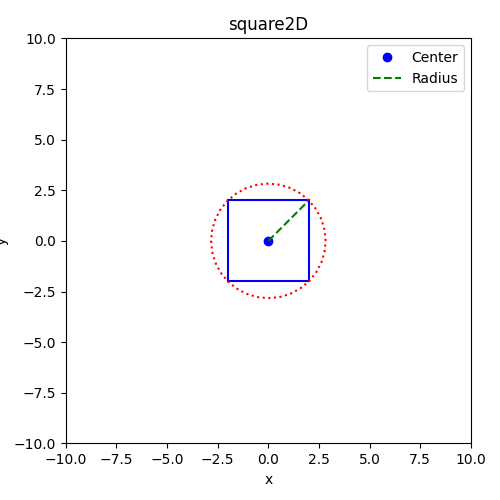
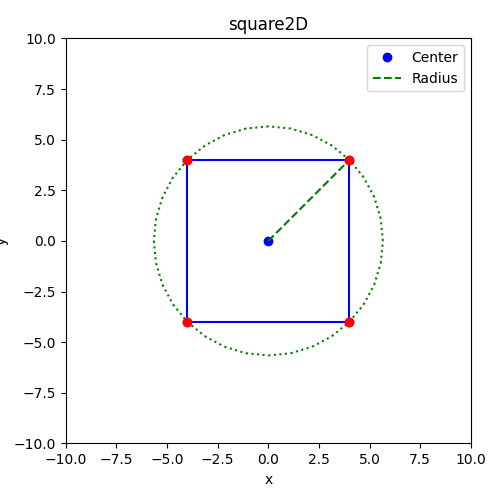
Removed degree angle from classes to avoid amiguity, only radian angles in classes.

diff --git a/tests/unit_tests/vec2fTests.cpp b/tests/unit_tests/vec2fTests.cpp
@@ -161,7 +161,7 @@ TEST(vec2fTests, FlipVec2fAdvancedCase)
 TEST(vec2fTests, RotateVec2fBaseCase)
 {
     auto v1 = vec2f(1, 1);
-    auto v1_r90 = v1.rotate(90);
+    auto v1_r90 = v1.rotate(degToRad(90));
 
     ASSERT_NEAR(v1_r90.x, -1, 1e-3f); // test x
     ASSERT_NEAR(v1_r90.y, 1, 1e-3f); // test y
@@ -171,7 +171,7 @@ TEST(vec2fTests, RotateRelToVec2fBaseCase)
 {
     auto v1 = vec2f(1, 1);
     auto v2 = vec2f(2, 2);
-    auto v2_r90 = v2.rotateRelTo(v1, 90);
+    auto v2_r90 = v2.rotateRelTo(v1, degToRad(90));
 
     ASSERT_NEAR(v2_r90.x, 0, 1e-3f); // test x
     ASSERT_NEAR(v2_r90.y, 2, 1e-3f); // test y
@@ -237,11 +237,11 @@ TEST(vec2fTests, AngleTest)
     auto p225 = vec2f(-1, -1);
     auto p315 = vec2f(1, -1);
 
-    ASSERT_FLOAT_EQ(p0.degAngle(), 0.f);
-    ASSERT_FLOAT_EQ(p45.degAngle(), 45.f);
-    ASSERT_FLOAT_EQ(p135.degAngle(), 135.f);
-    ASSERT_FLOAT_EQ(p225.degAngle(), 225.f);
-    ASSERT_FLOAT_EQ(p315.degAngle(), 315.f);
+    ASSERT_FLOAT_EQ(p0.angle(),     degToRad(0.f));
+    ASSERT_FLOAT_EQ(p45.angle(),    degToRad(45.f));
+    ASSERT_FLOAT_EQ(p135.angle(),   degToRad(135.f));
+    ASSERT_FLOAT_EQ(p225.angle(),   degToRad(225.f));
+    ASSERT_FLOAT_EQ(p315.angle(),   degToRad(315.f));
 }
 
 TEST(vec2fTests, AngleRelToTest)
@@ -253,18 +253,18 @@ TEST(vec2fTests, AngleRelToTest)
     auto p225 = vec2f(0, 0);
     auto p315 = vec2f(2, 0);
 
-    ASSERT_FLOAT_EQ(p0.degAngleRelTo(origin), 0.f);
-    ASSERT_FLOAT_EQ(p45.degAngleRelTo(origin), 45.f);
-    ASSERT_FLOAT_EQ(p135.degAngleRelTo(origin), 135.f);
-    ASSERT_FLOAT_EQ(p225.degAngleRelTo(origin), 225.f);
-    ASSERT_FLOAT_EQ(p315.degAngleRelTo(origin), 315.f);
+    ASSERT_FLOAT_EQ(p0.angleRelTo(origin),      degToRad(0.f));
+    ASSERT_FLOAT_EQ(p45.angleRelTo(origin),     degToRad(45.f));
+    ASSERT_FLOAT_EQ(p135.angleRelTo(origin),    degToRad(135.f));
+    ASSERT_FLOAT_EQ(p225.angleRelTo(origin),    degToRad(225.f));
+    ASSERT_FLOAT_EQ(p315.angleRelTo(origin),    degToRad(315.f));
 }
 
 TEST(vec2fTests, RelToOriginTests)
 {
     vec2f p1 = vec2f (0, 1);
 
-    vec2f p1_rot270 = p1.rotate(270);
+    vec2f p1_rot270 = p1.rotate(degToRad(270));
     vec2f p1_norm = p1.normal();
 
     ASSERT_NEAR(p1_rot270.x, p1_norm.x, 1e-3);
@@ -278,7 +278,7 @@ TEST(vec2fTests, RelToPointTests)
     vec2f p0 = vec2f(-1, 1);
     vec2f p1 = vec2f (0, 1);
 
-    vec2f p1_rot270 = p1.rotateRelTo(p0, 270);
+    vec2f p1_rot270 = p1.rotateRelTo(p0, degToRad(270));
     vec2f p1_norm = p0 + (p1 - p0).normal();
 
     ASSERT_NEAR(p1_rot270.x, p1_norm.x, 1e-3);

diff --git a/src/evenShape2D.cpp b/src/evenShape2D.cpp
@@ -9,7 +9,7 @@ evenShape2D::evenShape2D(
     const size_t size
 ) : shape2D(center, radius, size)
 {
-    this->m_vertSeparation = 360.f / size; // set separation between vertices (in degrees)
+    this->m_vertSeparation = degToRad(360.f) / size; // set separation between vertices (in degrees)
 
     this->m_vertices.push_back(point2D(this->m_center.x + this->m_radius, this->m_center.y)); // set first vertex
 
@@ -24,51 +24,18 @@ evenShape2D::evenShape2D(
 
 line2D evenShape2D::getBlockingEdge(const point2D &ls) const
 {
-    line2D cen2ls = line2D(this->m_center, ls);
-    float nerest_vert_angle = this->m_vertSeparation * round(cen2ls.normalDirection().degAngle() / this->m_vertSeparation);
-    point2D start = this->m_vertices[0].rotateRelTo(
-        this->m_center,
-        nerest_vert_angle
-    );
+    auto start = point2D(0, 0);
+    auto end = point2D(1, 1);
 
-    std::cout << "Angle: " << nerest_vert_angle << std::endl;
-
-    point2D end = start.flipRelTo(this->m_center);
-
-    return line2D(
-        start,
-        end
-    );
+    return line2D(start, end);
 }
 
 line2D evenShape2D::getBlockingEdgeNaive(const point2D &ls) const
 {
-    point2D start = point2D();
-    point2D end = point2D();
+    auto start = point2D(0, 0);
+    auto end = point2D(0, 0);
 
-    for (size_t i {0}; i < this->m_size; i++)
-    {
-        point2D current_vertex = this->m_vertices.at(i);
-        point2D next_vertex = this->m_vertices.at(i % (this->m_size-1));
-
-        std::cout   << "Current index is: " << i << "\n"
-                    << "Next index is: " << i % (this->m_size-1)
-                    << std::endl;
-
-        float ls_angle = current_vertex.degAngleRelTo(ls);
-        float start_angle = next_vertex.degAngleRelTo(current_vertex);
-        float end_angle = current_vertex.degAngleRelTo(next_vertex);
-
-        if (start_angle > ls_angle)
-            start = current_vertex;
-        if (end_angle > ls_angle)
-            end = next_vertex;
-    }
-
-    return line2D(
-        start,
-        end
-    );
+    return line2D(start, end);
 }
 
 } // namespace ds

diff --git a/tests/visual_tests/main.cpp b/tests/visual_tests/main.cpp
@@ -106,15 +106,11 @@ void testRotateVec2D()
     auto origo = ds::point2D(0, 0);
     auto p1 = ds::point2D(3, 0);
 
-    std::cout   << "Angle should be 270: "
-                << p1.rotate(270).degAngleRelTo(origo)
-                << std::endl;
-
     // Plots
     plot(origo, ".g", "Origo");
     plot(p1, "ob", "P1");
-    plot(p1.rotate(90), "or", "Rotate p1 by 90");
-    plot(p1.rotate(243), "om", "Rotate p1 by 243");
+    plot(p1.rotate(ds::degToRad(90)), "or", "Rotate p1 by 90");
+    plot(p1.rotate(ds::degToRad(243)), "om", "Rotate p1 by 243");
 
     saveDefaultFigure(test);
 }
@@ -435,16 +431,16 @@ void docsSquare()
 
     // Geometry
     auto ori = ds::point2D(0, 0);
-    auto sq = ds::square2D(ori, 2);
+    auto sq = ds::square2D(ori, 4);
     float circ_radius = ds::distance(ori, sq.corners().at(0));
     auto circ = ds::evenShape2D(ori, circ_radius, 32);
 
     // Plots
     plot(ori, "ob", "Center");
-    plot(ds::line2D(ori, sq.corners().at(0)), "--g", "Radius");
+    plot(ds::line2D(ori, sq[0]), "--g", "Radius");
     plot(sq, "b");
-    plot(circ, ":r");
-
+    plot(circ, ":g");
+    plot(sq, "or");
 
     saveFigure(DOCS_PATH, test);
 }
@@ -594,8 +590,10 @@ void docsCircleZoom()
     plot(ls_v, "--m", "Point Light Path to Blocking Vertex");
     plot(ds::line2D(c, circ[0]), ":b");
     plot(ds::line2D(c, circ[4]), ":b");
+    plot(ds::line2D(ds::point2D(10, -9), circ[0]), "--y");
     plot(circ, ".r");
     plot(c, "ob");
+    plot(ls, "om");
 
     saveFigure(DOCS_PATH, test);
 }

diff --git a/src/square2D.cpp b/src/square2D.cpp
@@ -41,22 +41,15 @@ const std::vector<point2D> & square2D::corners() const
     return this->m_corners;
 }
 
+const point2D & square2D::operator[](const size_t index) const
+{
+    return this->m_corners.at(index % this->m_corners.size());
+}
+
 const line2D square2D::getBlockingEdge(const point2D &ls) const
 {
-    float vert_ang = 90.f; // 90 degrees between corners in a square
-    line2D cen_to_ls = line2D(this->m_center, ls); // Define a line from ls to sq.center
-    float ls_ang = cen_to_ls.angle();
-    float norm_ang = cen_to_ls.normalAngle();
-
-    // Define start point (Top right corner of square)
-    point2D start = point2D(
-        this->m_center.x + this->m_radius,
-        this->m_center.y - ds::tanf(ds::PI/4) * this->m_radius
-    );
-
-    start = start.rotateRelTo(this->m_center, vert_ang * (int)(norm_ang / vert_ang));
-
-    auto end = start.rotateRelTo(this->m_center, 180); // Flip start to get end point
+    auto start = point2D(0, 0);
+    auto end = point2D(1, 1);
 
     return line2D(start, end);
 }

diff --git a/src/vec2f.cpp b/src/vec2f.cpp
@@ -91,8 +91,8 @@ vec2f vec2f::flipRelTo(const vec2f &start) const
 vec2f vec2f::rotate(const float ang) const
 {
     return vec2f(
-        this->x * cosf(degToRad(ang)) - this->y * sinf(degToRad(ang)),
-        this->x * sinf(degToRad(ang)) + this->y * cosf(degToRad(ang))
+        this->x * cosf(ang) - this->y * sinf(ang),
+        this->x * sinf(ang) + this->y * cosf(ang)
     );
 }
 

diff --git a/include/vec2f.hpp b/include/vec2f.hpp
@@ -40,10 +40,8 @@ public:
     vec2f unitVector() const;
 
     float angle() const;
-    inline float degAngle() const { return radToDeg(this->angle()); }
 
     float angleRelTo(const vec2f &start) const;
-    inline float degAngleRelTo(const vec2f &start) const { return radToDeg(this->angleRelTo(start)); }
 
     /**
      * @brief Flips the vectors x-value relative to origin [0 0].

diff --git a/src/line2D.cpp b/src/line2D.cpp
@@ -50,12 +50,12 @@ vec2f line2D::normalDirection() const
 
 float line2D::angle() const
 {
-    return this->direction().degAngle();
+    return this->direction().angle();
 }
 
 float line2D::normalAngle() const
 {
-    return this->normalDirection().degAngle();
+    return this->normalDirection().angle();
 }
 
 line2D line2D::flipEnd() const

diff --git a/src/triangle2D.cpp b/src/triangle2D.cpp
@@ -6,7 +6,7 @@ namespace ds
 triangle2D::triangle2D(vec2f center, float radius) : m_center(center), m_radius(radius)
 {
     auto top = point2D(m_center.x, m_center.y + m_radius);
-    auto left = top.rotate(120);
+    auto left = top.rotate(degToRad(120));
 
     m_corners.push_back(top);
     m_corners.push_back(left);

diff --git a/include/shape2D.hpp b/include/shape2D.hpp
@@ -29,7 +29,7 @@ public:
 
     virtual line2D getBlockingEdge(const point2D &ls) const = 0;
 
-    vec2f & operator[](size_t index)
+    const vec2f & operator[](size_t index) const
     {
         return this->m_vertices.at(index % this->m_vertices.size());
     }

diff --git a/include/square2D.hpp b/include/square2D.hpp
@@ -54,6 +54,8 @@ public:
      */
     const std::vector<point2D> & corners() const;
 
+    const point2D & operator[](const size_t index) const;
+
     const line2D getBlockingEdge(const point2D &ls) const;
 };
 
